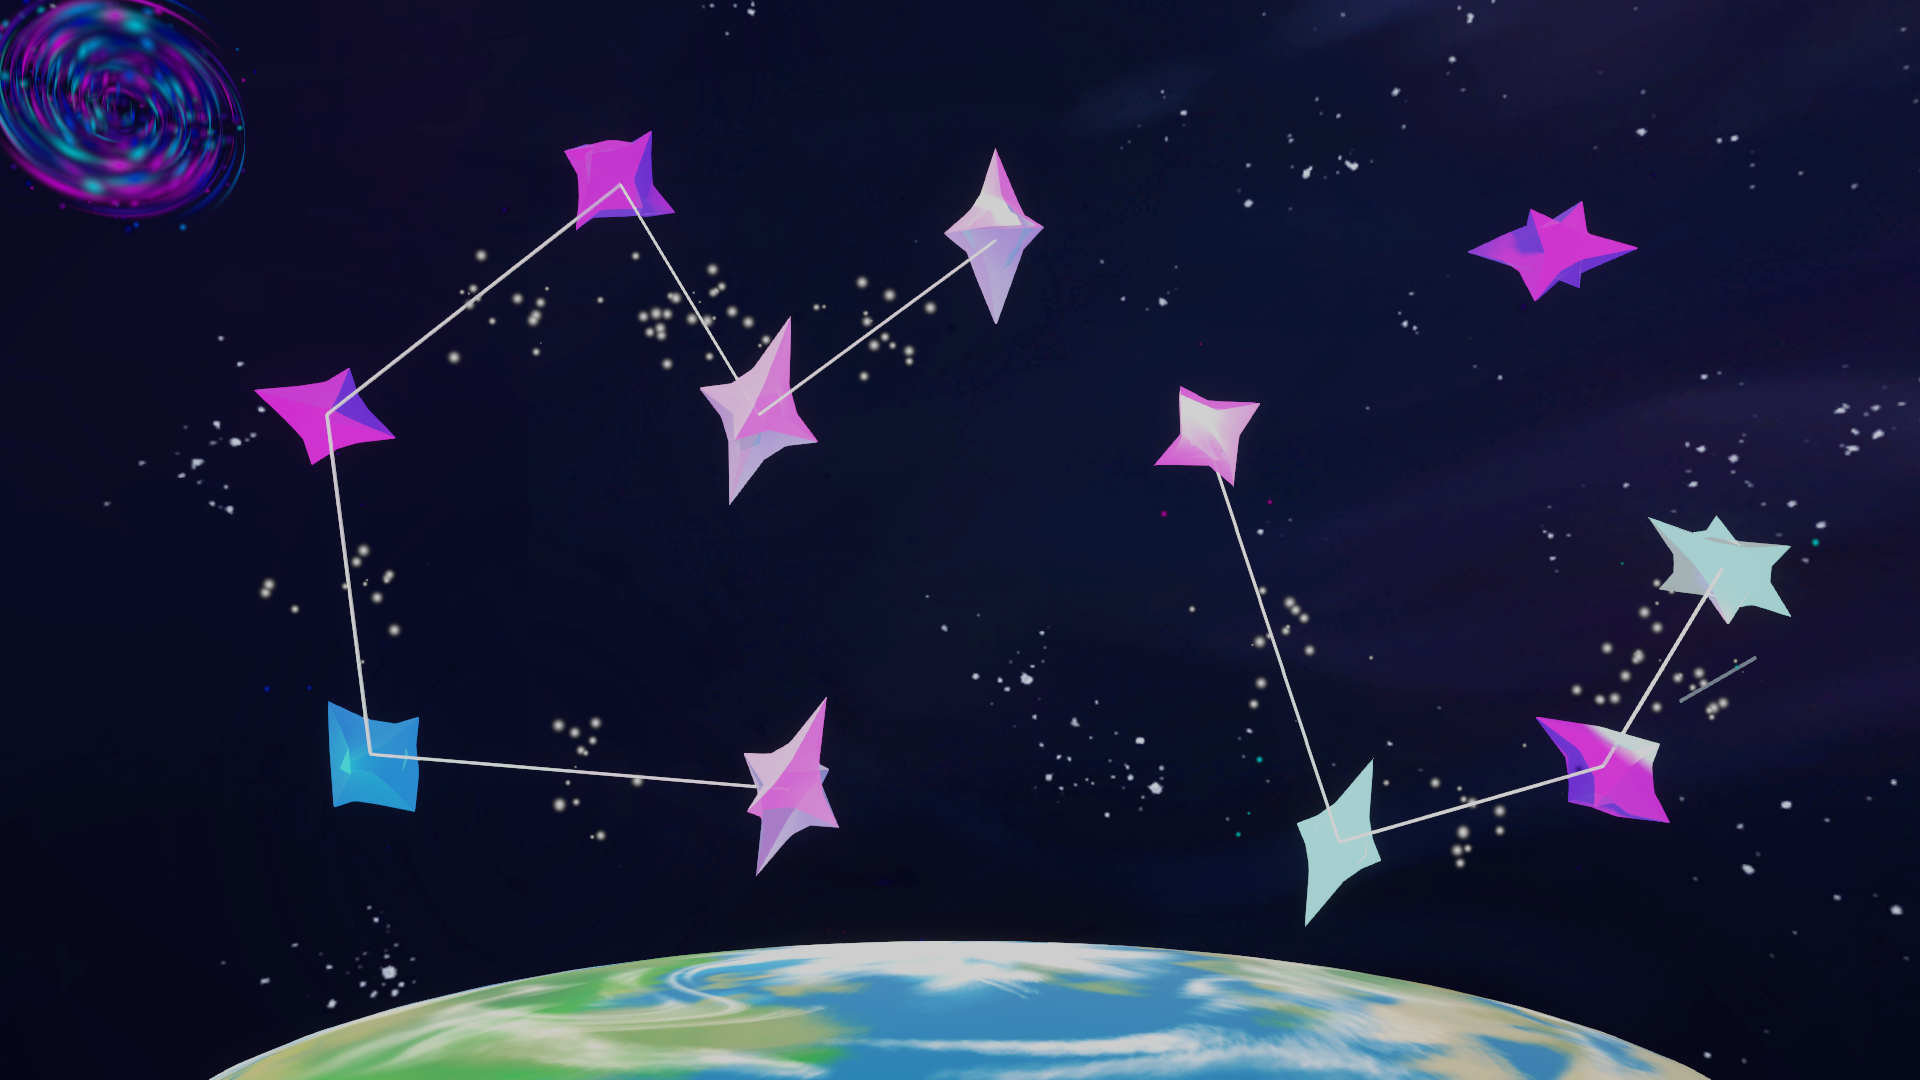
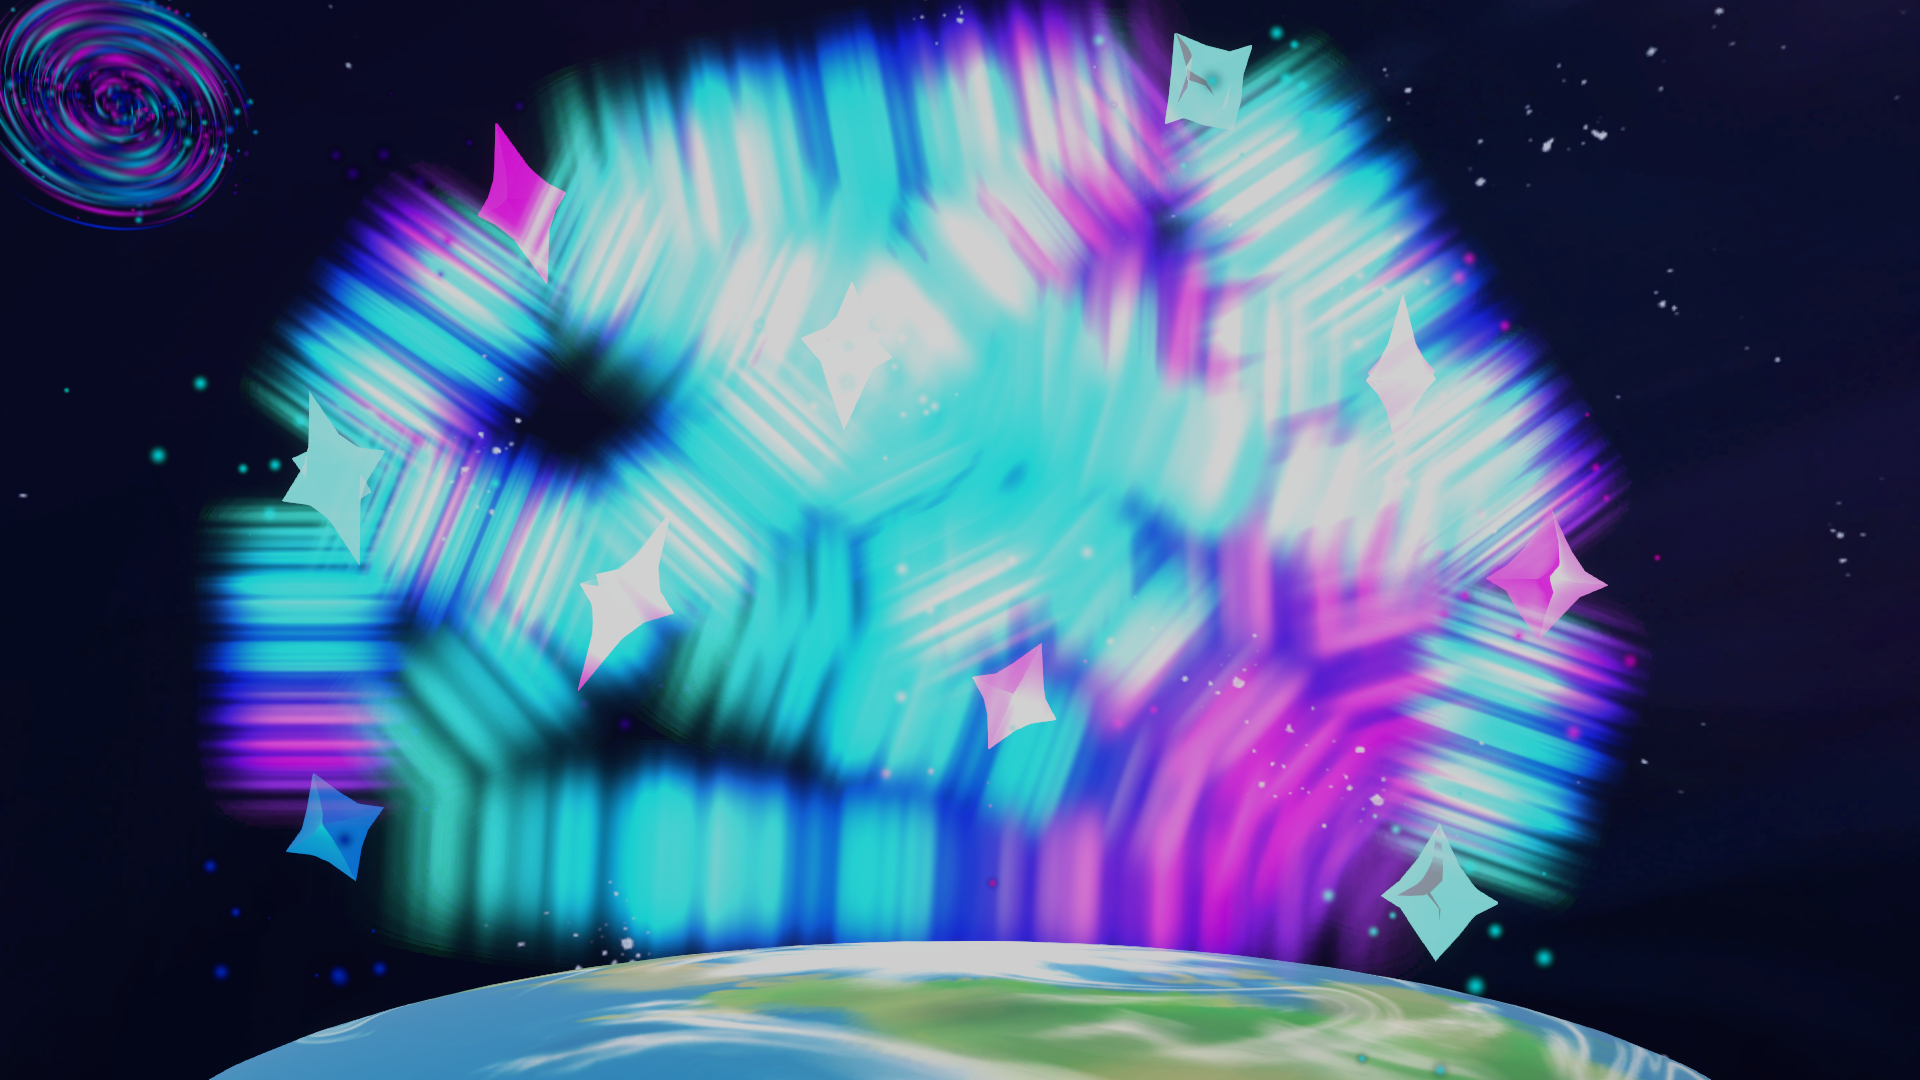
Linking Shaders updated

diff --git a/Assets/Scripts/CrystalMovable.cs b/Assets/Scripts/CrystalMovable.cs
@@ -42,7 +42,9 @@ public class CrystalMovable : MonoBehaviour
     //Crystal Connection values
     [HideInInspector] public CrystalMovable[] connectedCrystals;
     public int connectionLimit = 2;
-    public GameObject crystalConnectEffect;
+    public GameObject crystalConnectEffectOff;
+    public GameObject crystalConnectEffectLit;
+    GameObject crystalConnectEffect;
     public GameObject[] connectEffects;
     Animator connectAnimator;
 
@@ -114,7 +116,7 @@ public class CrystalMovable : MonoBehaviour
             {   
                 if (connectEffects[i] == null)
                 {
-                    connectEffects[i] = Instantiate(crystalConnectEffect, new Vector3(0, 0, 0), transform.rotation);
+                    connectEffects[i] = Instantiate(crystalConnectEffectOff, new Vector3(0, 0, 0), transform.rotation);
                 }
             }
         }
@@ -239,6 +241,8 @@ public class CrystalMovable : MonoBehaviour
             {
                 if (connectEffects[i] == null)
                 {
+                    if (manager.crystalsActive) { crystalConnectEffect = crystalConnectEffectLit; }
+                    else { crystalConnectEffect = crystalConnectEffectOff; }
                     connectEffects[i] = Instantiate(crystalConnectEffect);
                 }
                 
